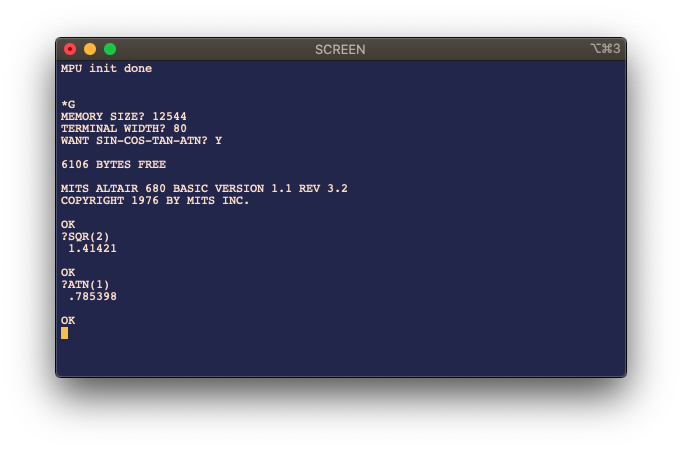
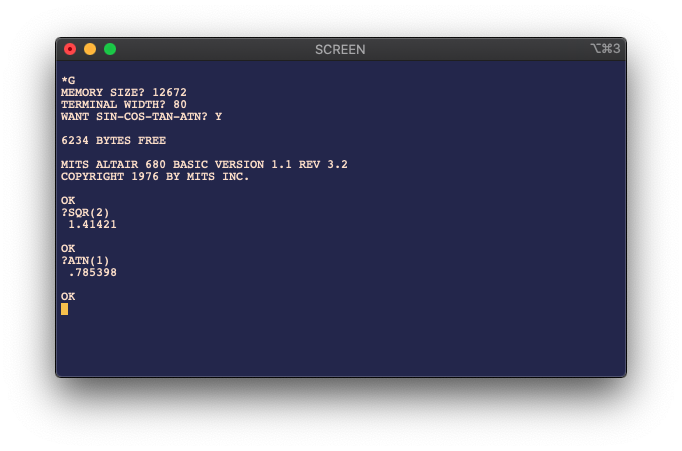
update readme

Changed region(s): [[0.0924, 0.1242, 0.5235, 0.745]]

diff --git a/Readme.md b/Readme.md
@@ -56,6 +56,15 @@ EMUZ80 と同様に PIC が MPU バス信号を読み取って ROM、RAM、UART 
 
 PIC コード次第ではもう少し高速化できるかもしれません。現状のコードでは SBC6802 のメモリマップが再現される反面、メモリ割り当てが複雑になり処理効率は落ちます。
 
+## MC6802 の内蔵 RAM（128 バイト）を有効にする
+
+MC6802 は $0000-$007F の 128 バイト RAM を内蔵しています。RE ピン（pin36）を H にすると有効になります。Basic のフリーエリアが 6106 バイトから 6234 バイトに増えます。
+
+内蔵 RAM を有効にした場合、次の点を考慮する必要があります。
+
+- 内蔵 RAM アクセス時はメモリアクセスサイクルのストレッチを発動しない
+- PIC のデータバス GPIO のデフォルト状態を MPU 書き込みモードにする（PICから見ると読み出しモード）
+
 ## 課題
 
 - PIC のメモリエミュレーションを最適化する。

diff --git a/Readme_en.md b/Readme_en.md
@@ -48,6 +48,15 @@ The PIC16F47Q84 emurates the memory and UART for the MC6802. The 6802 external c
 
 (Ch1: EXTAL, Ch1: E, Ch3: MR)
 
+## Enabling MC6802 inernal RAM
+
+MC6802 contains a 128-byte internal RAM area from $0000-$007F. This internal RAM is enabled by setting RE (pin36) to High. Basic available ram is increased from 6106 bytes to 6234 bytes.
+
+As the internal RAM is a physical device, i.e. it si not emulated by the PIC, you need to implment the following:
+
+- When accessing $0000-$007F, do not stretch the mem. acc. cycle.
+- Make the default MPU_DDIR to 0xff = MPU write (PIC read), so that there will not be data bus conflict.
+
 ## To Do's
 
 - Improve the memory emulation on PIC.
